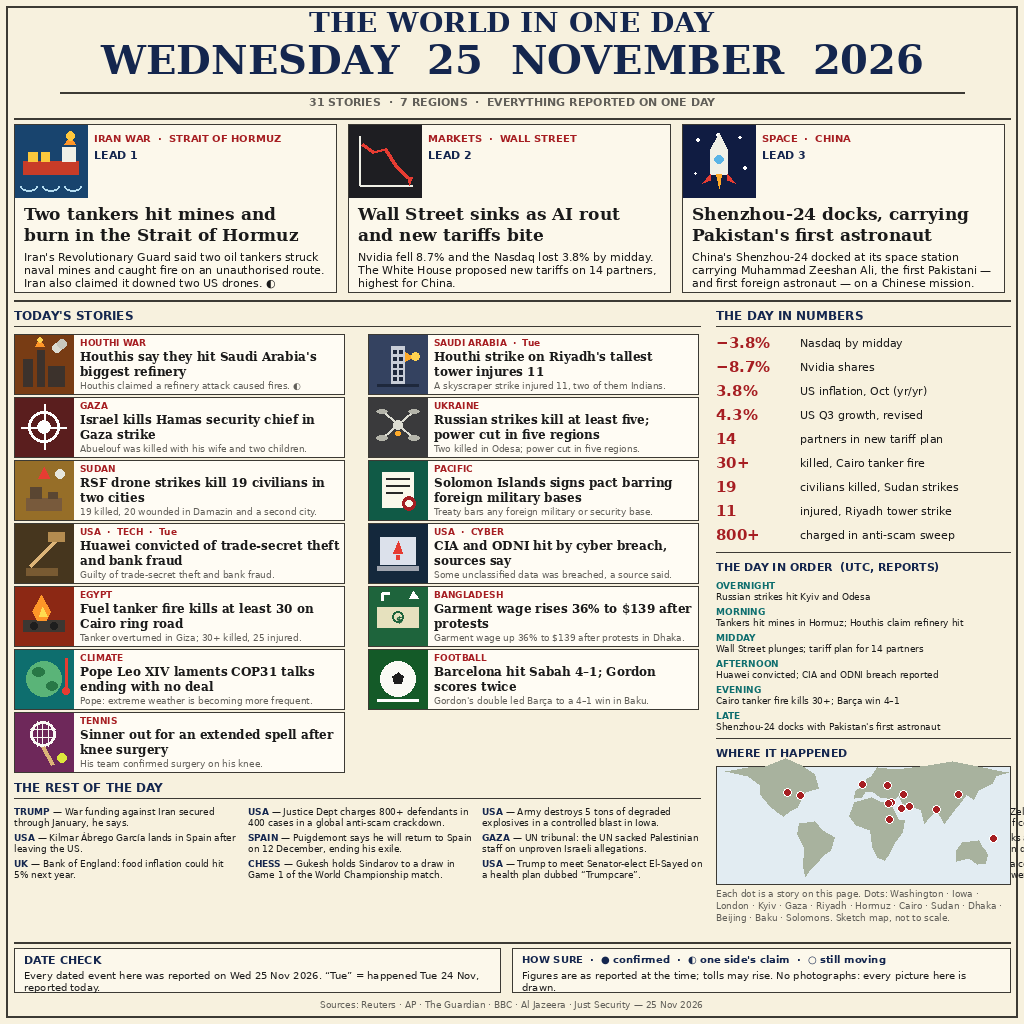
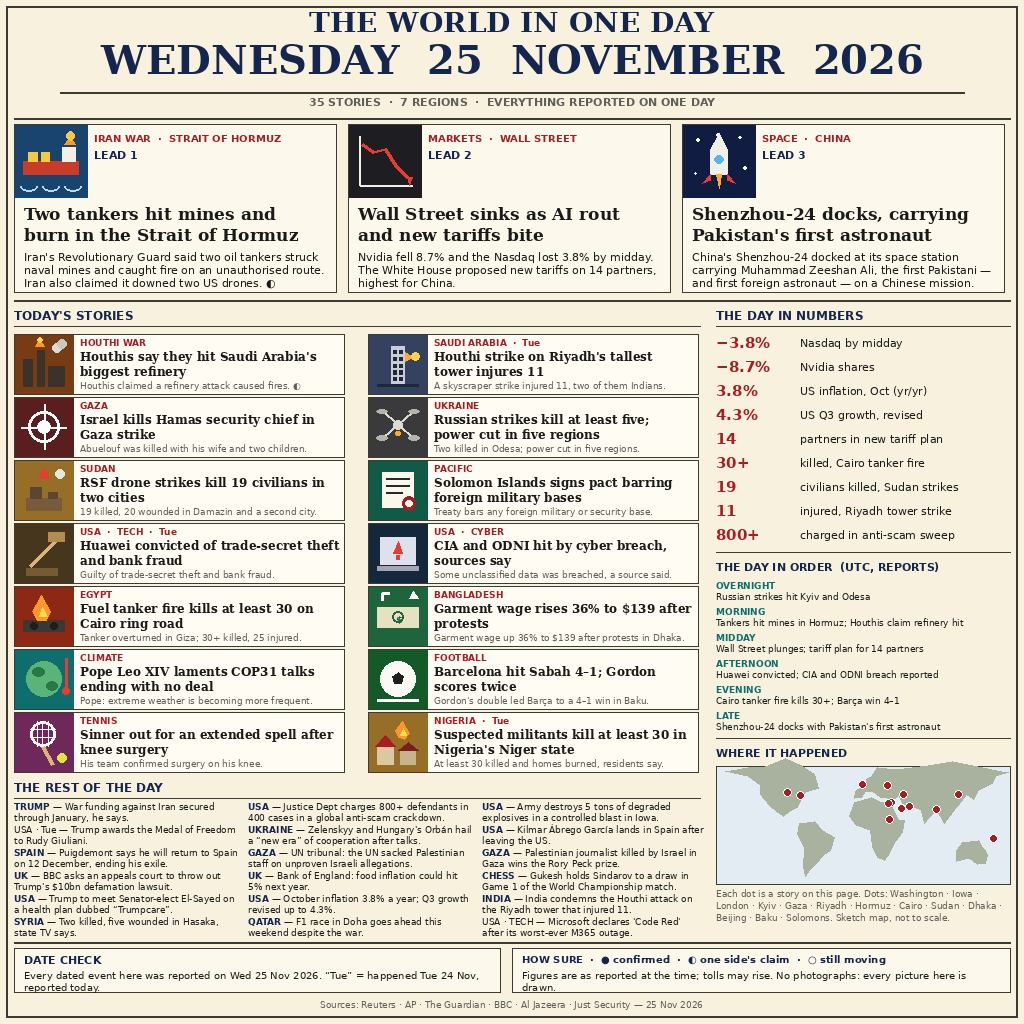
Fix news-25 layout: 35 stories, all visible (REST 3 cols, Nigeria card)

Changed region(s): [[0.0, 0.6875, 0.6875, 0.9375]]

diff --git a/render.py b/render.py
@@ -268,17 +268,33 @@ def icon_sudan(draw, x, y, s):
     draw.ellipse([x + 36 * u, y + 8 * u, x + 44 * u, y + 16 * u], fill=(230, 230, 220))
 
 
+def icon_village(draw, x, y, s):
+    _panel(draw, x, y, s, (150, 110, 40))
+    u = s / 52.0
+    draw.rectangle([x + 8 * u, y + 30 * u, x + 22 * u, y + 46 * u], fill=(220, 200, 160))
+    draw.polygon([(x + 6 * u, y + 30 * u), (x + 15 * u, y + 20 * u),
+                  (x + 24 * u, y + 30 * u)], fill=(166, 30, 34))
+    draw.rectangle([x + 28 * u, y + 34 * u, x + 42 * u, y + 46 * u], fill=(200, 180, 140))
+    draw.polygon([(x + 26 * u, y + 34 * u), (x + 35 * u, y + 26 * u),
+                  (x + 44 * u, y + 34 * u)], fill=(120, 30, 30))
+    draw.polygon([(x + 30 * u, y + 8 * u), (x + 36 * u, y + 18 * u),
+                  (x + 32 * u, y + 24 * u), (x + 26 * u, y + 22 * u),
+                  (x + 24 * u, y + 16 * u)], fill=(255, 150, 40))
+    draw.polygon([(x + 31 * u, y + 14 * u), (x + 34 * u, y + 20 * u),
+                  (x + 28 * u, y + 20 * u)], fill=(255, 220, 80))
+
+
 ICONS = {
     "tanker": icon_tanker, "chart": icon_chart, "rocket": icon_rocket,
     "refinery": icon_refinery, "tower": icon_tower, "target": icon_target,
     "drone": icon_drone, "treaty": icon_treaty, "gavel": icon_gavel,
     "cyber": icon_cyber, "fire": icon_fire, "wage": icon_wage,
     "climate": icon_climate, "ball": icon_ball, "racket": icon_racket,
-    "sudan": icon_sudan,
+    "sudan": icon_sudan, "village": icon_village,
 }
 
 # ------------------------------------------------------------------ data
-# 31 stories, all reported on Wednesday 25 November 2026 (UTC).
+# 35 stories, all reported on Wednesday 25 November 2026 (UTC).
 # "(Tue)" = happened on Tuesday 24 Nov, first reported on Wednesday.
 # Claims asserted by one side only carry the hollow-dot marker in text.
 
@@ -349,6 +365,9 @@ CARDS = [
     ("TENNIS", "racket",
      "Sinner out for an extended spell after knee surgery",
      "His team confirmed surgery on his knee."),
+    ("NIGERIA  ·  Tue", "village",
+     "Suspected militants kill at least 30 in Nigeria's Niger state",
+     "At least 30 killed and homes burned, residents say."),
 ]
 
 REST = [
@@ -377,6 +396,10 @@ REST = [
     ("USA", "October inflation 3.8% a year; Q3 growth revised up to 4.3%."),
     ("INDIA", "India condemns the Houthi attack on the Riyadh tower that "
      "injured 11."),
+    ("SYRIA", "Two killed, five wounded in Hasaka, state TV says."),
+    ("QATAR", "F1 race in Doha goes ahead this weekend despite the war."),
+    ("USA  ·  TECH", "Microsoft declares 'Code Red' after its worst-ever "
+     "M365 outage."),
 ]
 
 NUMBERS = [
@@ -469,7 +492,7 @@ def build(out_path):
     d.text((W // 2, 44), "WEDNESDAY  25  NOVEMBER  2026",
            font=SERIF(40), fill=NAVY, anchor="mt")
     rule(d, 60, 92, W - 60, width=2)
-    d.text((W // 2, 98), "31 STORIES  ·  7 REGIONS  ·  EVERYTHING REPORTED ON ONE DAY",
+    d.text((W // 2, 98), "35 STORIES  ·  7 REGIONS  ·  EVERYTHING REPORTED ON ONE DAY",
            font=SANSB(11), fill=GREY, anchor="mt")
     rule(d, 14, 118, W - 14, width=2)
 
@@ -517,15 +540,18 @@ def build(out_path):
                    SANS(9), fill=GREY, leading=11, max_lines=1)
 
     # ---- the rest of the day ---------------------------------------
+    # 3 columns x 6 rows at 23px pitch. The section must end by y=937:
+    # the bottom band rule sits at 942, and each item needs 21px
+    # (2 lines at 11px leading). Rows start at rest_y+21.
     rest_y = 334 + 7 * card_h + 6 * cg + 8
     d.text((14, rest_y), "THE REST OF THE DAY", font=SANSB(12), fill=NAVY)
     rule(d, 14, rest_y + 18, 700, width=1)
-    ly = rest_y + 26
+    ly = rest_y + 21
     col_w2 = 222
     for i, (kick, body) in enumerate(REST):
-        r, c = divmod(i, 5)
+        r, c = divmod(i, 3)
         x = 14 + c * (col_w2 + 12)
-        y = ly + r * 26
+        y = ly + r * 23
         full = kick + " — " + body
         lines = wrap(d, full, SANS(9), col_w2)[:2]
         if lines:

diff --git a/README.md b/README.md
@@ -10,9 +10,9 @@ built for the [make.fun](https://make.fun/c/news-image-20261125/)
 
 ## What it is
 
-A dense cream broadsheet: 31 stories across 9 regions, 3 lead stories
+A dense cream broadsheet: 35 stories across 7 regions, 3 lead stories
 (Hormuz tanker mines, the Wall Street AI sell-off, Shenzhou-24 docking
-with Pakistan's first astronaut), 13 illustrated reports, a "Rest of the
+with Pakistan's first astronaut), 14 illustrated reports, a "Rest of the
 Day" list, a Day in Numbers sidebar, a UTC timeline, a sketch world map,
 and Date Check / How Sure boxes. Every dated event was checked against
 news reported on 25 November 2026; one-sided claims are marked ◐, and
